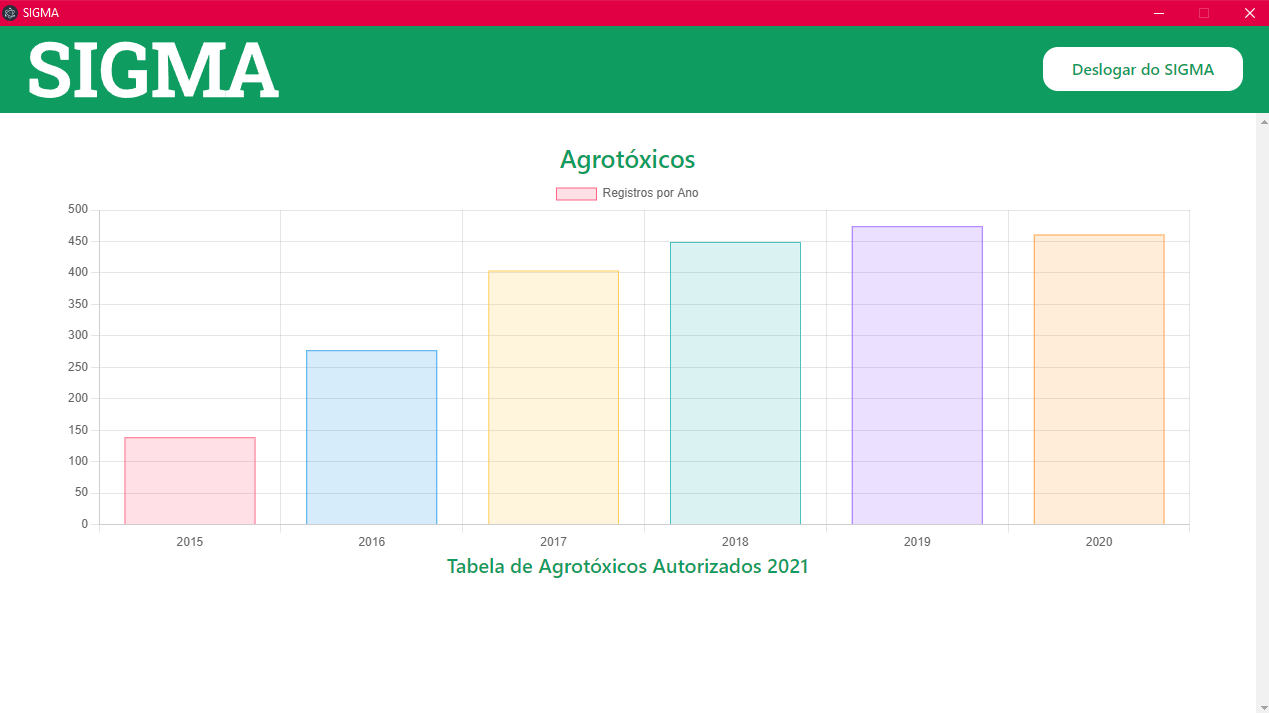
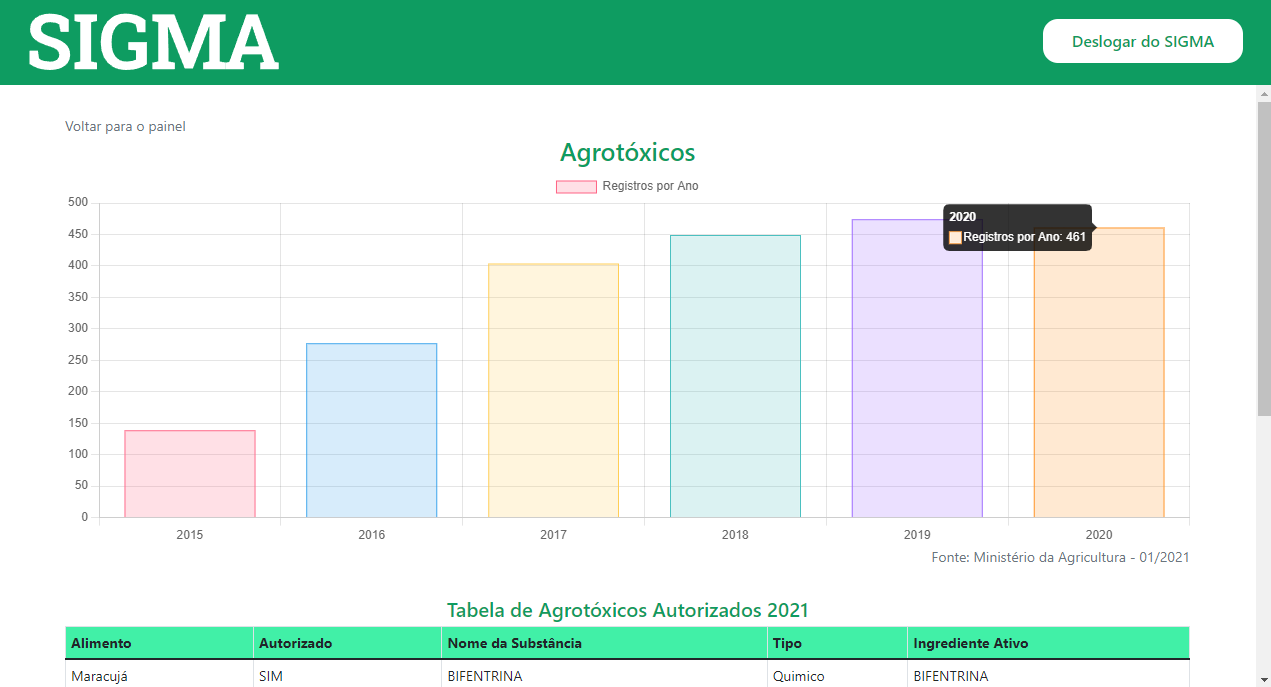
agrotóxicos finalizados

diff --git a/src/views/agrotoxico.html b/src/views/agrotoxico.html
@@ -18,11 +18,7 @@
     </head>
     <body
         style="width: 100vw; height: 100vh"
-        class="
-            bg-white
-            d-flex
-            flex-column
-        "
+        class="bg-white d-flex flex-column"
         id="painel"
     >
         <nav
@@ -41,22 +37,141 @@
                 >Deslogar do SIGMA</a
             >
         </nav>
-        <div class="content w-100 h-100 py-5" style="max-height: 100%;overflow-y: scroll;">
-            <div
-                class="
-                    container
-                    w-100
-                    h-100
-                    d-flex
-                    flex-column
-                "
-            >
+        <div
+            class="content w-100 h-100 py-5"
+            style="max-height: 100%; overflow-y: scroll"
+        >
+            <div class="container w-100 h-100 d-flex flex-column">
+                <a href="./acesso.html" class="text-muted" style="font-size: 1.4rem;text-decoration: none;width: fit-content;">Voltar para o painel</a>
                 <h1 class="text-center sigma_text_color">Agrotóxicos</h1>
                 <div class="w-100">
                     <canvas id="agrotoxicos" height="100px"></canvas>
-                    <h2 class="text-center sigma_text_color">Tabela de Agrotóxicos Autorizados 2021</h2>
-                    <table>
-
+                    <p class="mb-5 text-muted" style="text-align: right;font-size: 1.4rem;">Fonte: Ministério da Agricultura - 01/2021</p>
+                    <h2 class="text-center sigma_text_color mt-5 mb-2">
+                        Tabela de Agrotóxicos Autorizados 2021
+                    </h2>
+                    <table class="table table-bordered" style="font-size: 1.4rem;">
+                        <thead>
+                            <tr class="sigma_bg_color">
+                                <th>Alimento</th>
+                                <th>Autorizado</th>
+                                <th>Nome da Substância</th>
+                                <th>Tipo</th>
+                                <th>Ingrediente Ativo</th>
+                            </tr>
+                        </thead>
+                        <tbody>
+                            <tr>
+                                <td>Maracujá</td>
+                                <td>SIM</td>
+                                <td>BIFENTRINA</td>
+                                <td>Quimico</td>
+                                <td>BIFENTRINA</td>
+                            </tr>
+                            <tr>
+                                <td>Kiwi</td>
+                                <td>SIM</td>
+                                <td>METOMIL</td>
+                                <td>Quimico</td>
+                                <td>METOMIL</td>
+                            </tr>
+                            <tr>
+                                <td>Melão</td>
+                                <td>SIM</td>
+                                <td>METOMIL</td>
+                                <td>Quimico</td>
+                                <td>METOMIL</td>
+                            </tr>
+                            <tr>
+                                <td>Mandioca</td>
+                                <td>SIM</td>
+                                <td>AMETRINA</td>
+                                <td>Quimico</td>
+                                <td>AMETRINA</td>
+                            </tr>
+                            <tr>
+                                <td>Cacau</td>
+                                <td>SIM</td>
+                                <td>BIFENTRINA</td>
+                                <td>Quimico</td>
+                                <td>BIFENTRINA</td>
+                            </tr>
+                            <tr>
+                                <td>Batata</td>
+                                <td>SIM</td>
+                                <td>Flubendiamida</td>
+                                <td>Quimico</td>
+                                <td>Flubendiamida</td>
+                            </tr>
+                            <tr>
+                                <td>Framboesa</td>
+                                <td>SIM</td>
+                                <td>BIFENTRINA</td>
+                                <td>Quimico</td>
+                                <td>BIFENTRINA</td>
+                            </tr>
+                            <tr>
+                                <td>Morango</td>
+                                <td>SIM</td>
+                                <td>BIFENTRINA</td>
+                                <td>Quimico</td>
+                                <td>BIFENTRINA</td>
+                            </tr>
+                            <tr>
+                                <td>Romã</td>
+                                <td>SIM</td>
+                                <td>BIFENTRINA</td>
+                                <td>Quimico</td>
+                                <td>BIFENTRINA</td>
+                            </tr>
+                            <tr>
+                                <td>Mamão</td>
+                                <td>SIM</td>
+                                <td>METOMIL</td>
+                                <td>Quimico</td>
+                                <td>METOMIL</td>
+                            </tr>
+                            <tr>
+                                <td>Manga</td>
+                                <td>SIM</td>
+                                <td>METOMIL</td>
+                                <td>Quimico</td>
+                                <td>METOMIL</td>
+                            </tr>
+                            <tr>
+                                <td>Framboesa</td>
+                                <td>SIM</td>
+                                <td>METOMIL</td>
+                                <td>Quimico</td>
+                                <td>METOMIL</td>
+                            </tr>
+                            <tr>
+                                <td>Acerola</td>
+                                <td>SIM</td>
+                                <td>BIFENTRINA</td>
+                                <td>Quimico</td>
+                                <td>BIFENTRINA</td>
+                            </tr>
+                            <tr>
+                                <td>Amora</td>
+                                <td>SIM</td>
+                                <td>BIFENTRINA</td>
+                                <td>Quimico</td>
+                                <td>BIFENTRINA</td>
+                            </tr>
+                            <tr>
+                                <td>Feijão caupi</td>
+                                <td>SIM</td>
+                                <td>Flubendiamida</td>
+                                <td>Quimico</td>
+                                <td>Flubendiamida</td>
+                            </tr>
+                            <tr>
+                                <td colspan="5">
+                                    <p class="mb-0 text-muted" style="text-align: right;font-size: 1.4rem;">Fonte: Ministério da Agricultura - 11/2021</p>
+                                </td>
+                            </tr>
+                        </tbody>
                     </table>
                 </div>
             </div>
@@ -72,14 +187,7 @@
             const myChart = new Chart(ctx, {
                 type: "bar",
                 data: {
-                    labels: [
-                        "2015",
-                        "2016",
-                        "2017",
-                        "2018",
-                        "2019",
-                        "2020",
-                    ],
+                    labels: ["2015", "2016", "2017", "2018", "2019", "2020"],
                     datasets: [
                         {
                             label: "Registros por Ano",

diff --git a/src/views/index.html b/src/views/index.html
@@ -15,7 +15,7 @@
         <div id="alert" class="d-none sigma_alert"></div>
         <img src="../images/logo-completo.svg" alt="">
         <form action="./painel.html" method="post" onsubmit="initFaceRecognition(event)">
-            <button type="submit" class="sigma_btn_primary">Acessar Plataforma</button>
+            <button type="submit" class="sigma_btn_primary" style="border: none;">Acessar Plataforma</button>
         </form>
     </div>
     <div class="w-100 h-100 d-flex flex-column justify-content-center align-items-center d-none" id="loadingPage">
